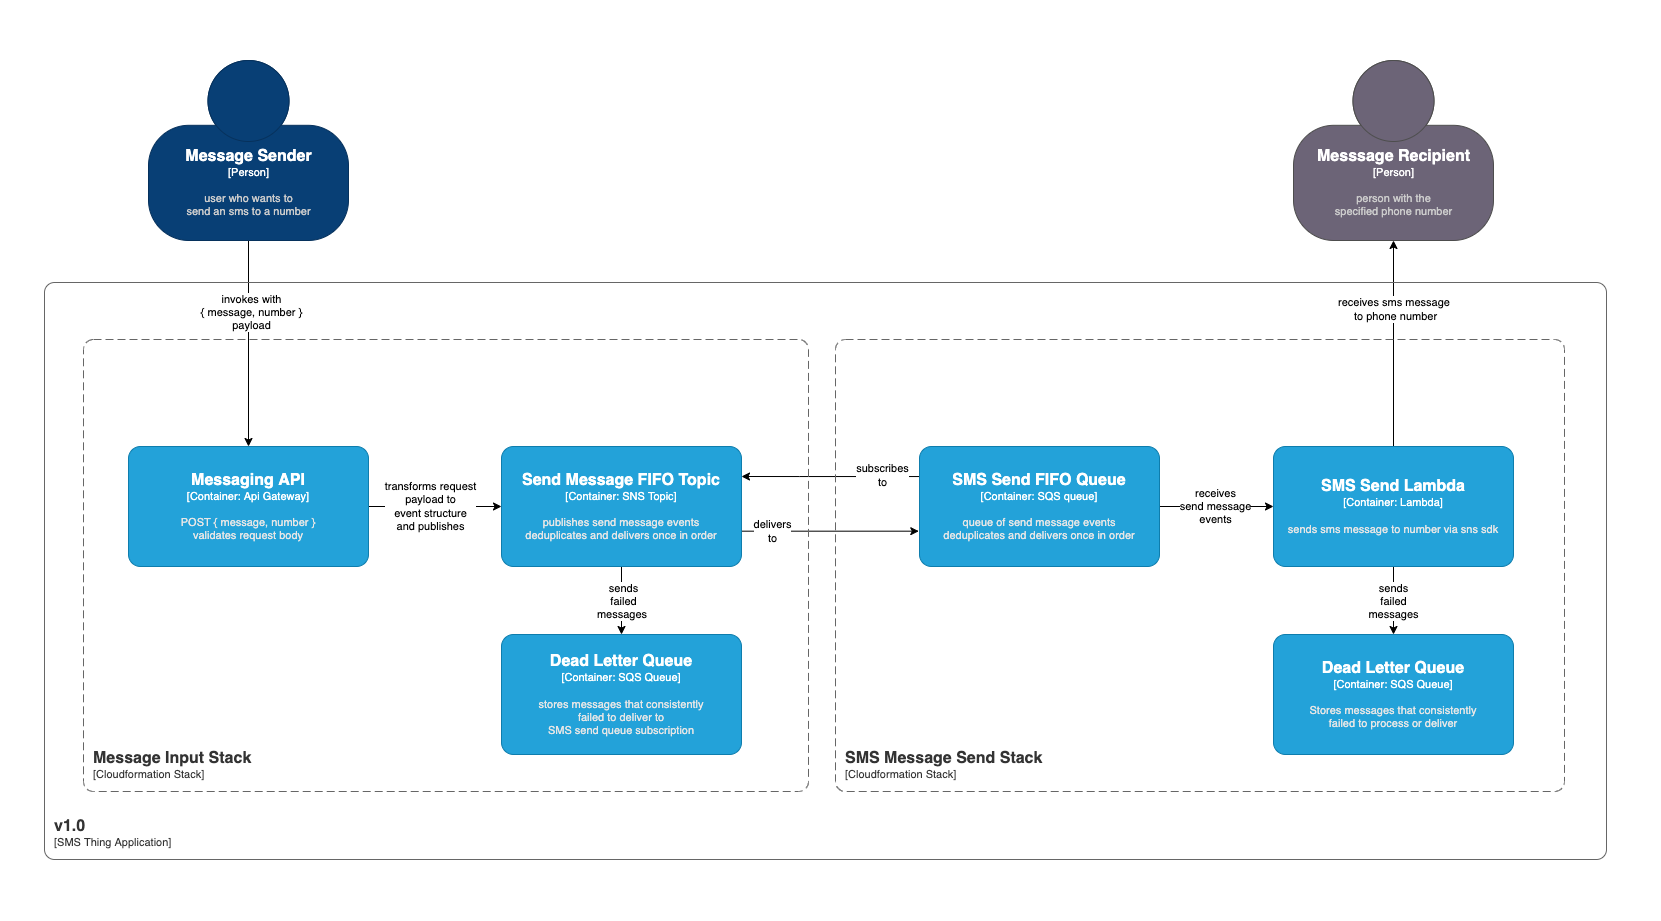
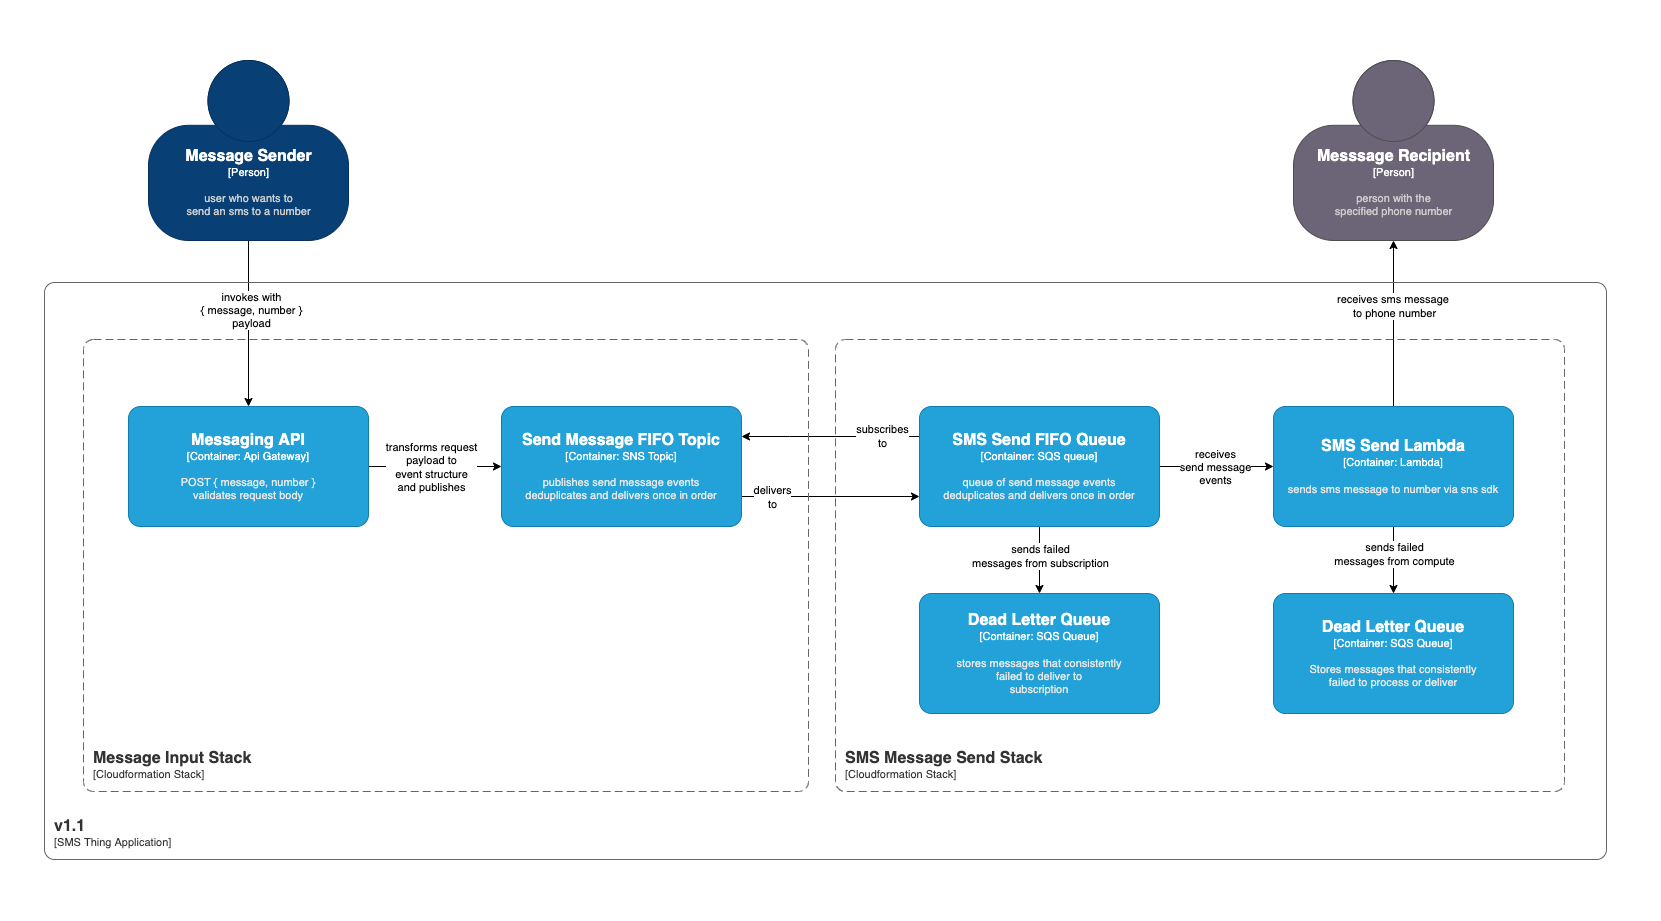
update diagram; move delivery dlq into sms stack

diff --git a/packages/message-input-stack/lib/message-input-stack.ts b/packages/message-input-stack/lib/message-input-stack.ts
@@ -51,7 +51,6 @@ export class MessageInputStack extends Stack {
       }
     })
 
-    // TODO add dlq for delivery failure to service integration
     api.root.addMethod('POST',
       new AwsIntegration({
         service: 'sns',
